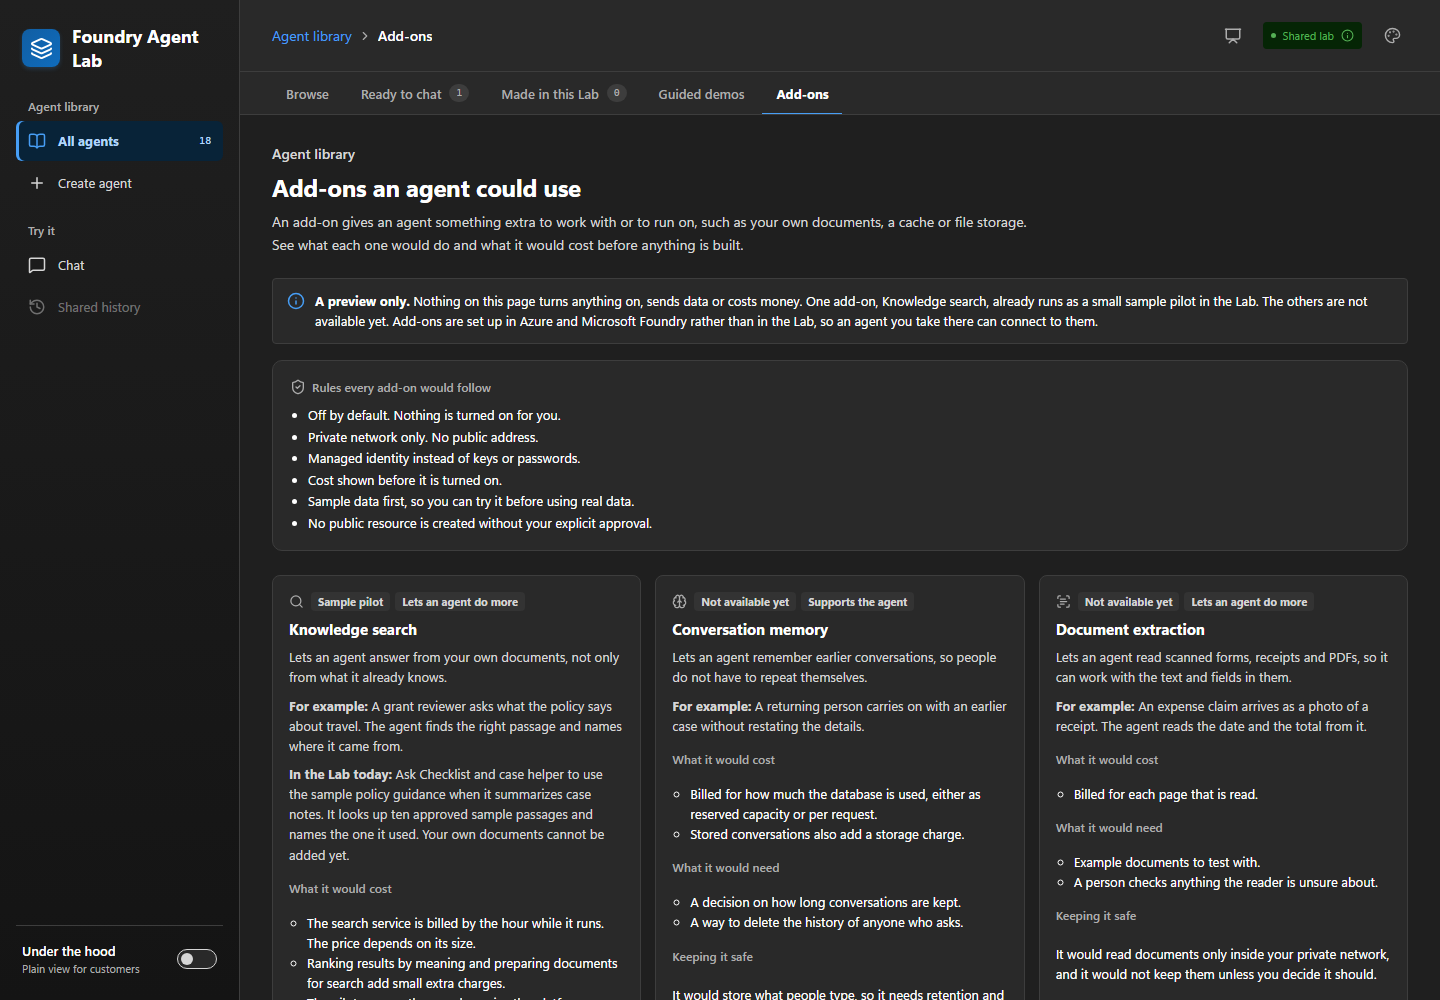
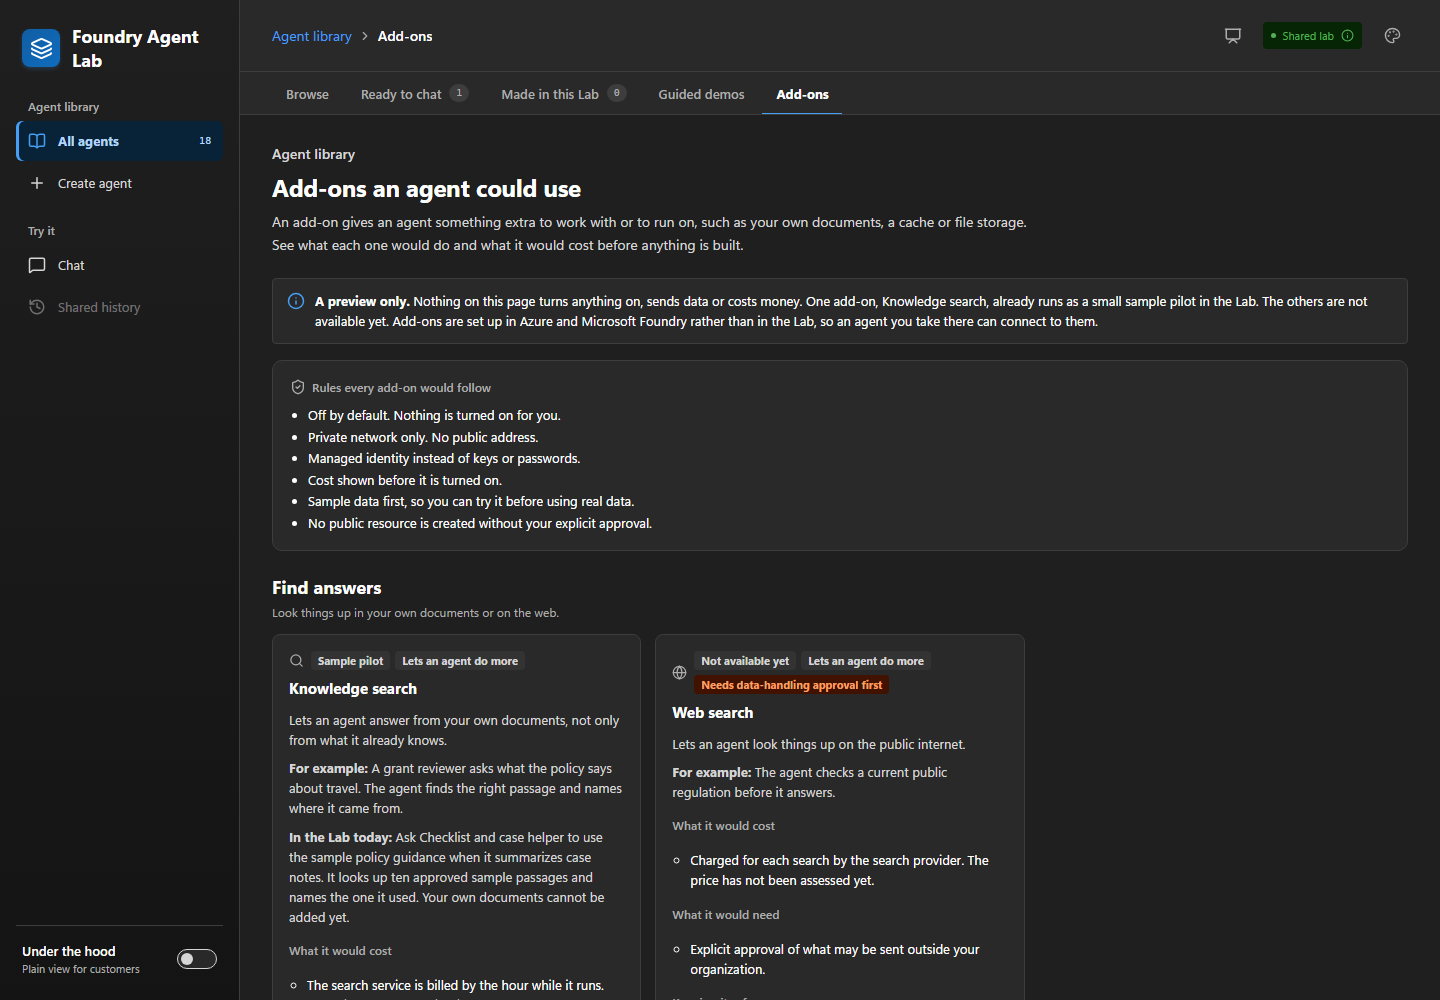
Group the Add-ons tab by job (#287) (#308)
Copilot-Session: 38443334-acdc-40f4-859e-901067c02276

Changed region(s): [[0.1875, 0.558, 0.4375, 0.992], [0.4688, 0.589, 0.7188, 1.0], [0.7188, 0.589, 0.9688, 0.992]]

diff --git a/workbench/frontend/unit/add-on-catalog.test.ts b/workbench/frontend/unit/add-on-catalog.test.ts
@@ -2,6 +2,7 @@ import assert from 'node:assert/strict'
 import { describe, it } from 'node:test'
 import {
   addOnGroupLabels,
+  addOnJobs,
   addOnRules,
   addOns,
   codingAgentRequest,
@@ -79,6 +80,32 @@ describe('add-ons catalogue', () => {
       )
     assert.equal(addOnGroupLabels.abilities, 'Lets an agent do more')
     assert.equal(addOnGroupLabels.support, 'Supports the agent')
+  })
+
+  it('puts every add-on under one job heading and shows no empty heading', () => {
+    const jobs = addOnJobs.map((job) => job.id)
+    for (const item of addOns)
+      assert.ok(jobs.includes(item.job), ` job ${item.job}`)
+    for (const job of addOnJobs)
+      assert.ok(
+        addOns.some((item) => item.job === job.id),
+        `nothing is listed under ${job.title}`,
+      )
+    assert.deepEqual(
+      addOnJobs.map((job) => job.title),
+      [
+        'Find answers',
+        'Work with documents',
+        'Remember and reuse',
+        'Do the work and tell people',
+      ],
+    )
+  })
+
+  it('says what each add-on does in one sentence', () => {
+    for (const item of addOns) {
+      assert.match(item.summary, /^[^.!?]+\.$/, ` summary`)
+    }
   })
 
   it('warns that a cache keeps what people asked, like memory does', () => {

diff --git a/workbench/frontend/tests/helpers/catalog.ts b/workbench/frontend/tests/helpers/catalog.ts
@@ -16,13 +16,15 @@ export const scorecards = JSON.parse(
 )
 export const templates: LibraryTemplate[] = catalog.templates
 
-// The add-on manifests in the repository's addons folder, in the order the Add-ons tab lists them.
+// The add-on manifests in the repository's addons folder, in the order the Add-ons tab lists them:
+// by job heading, then by each manifest's order.
+const addOnJobOrder = ['answers', 'documents', 'memory', 'work']
 const addOnsFolder = new URL('../../../../addons/', import.meta.url)
 export const addOnManifests: {
   id: string
   name: string
   order: number
-  card: { summary: string; pilot?: string }
+  card: { summary: string; job: string; pilot?: string }
 }[] = readdirSync(addOnsFolder, { withFileTypes: true })
   .filter(
     (entry) =>
@@ -34,7 +36,11 @@ export const addOnManifests: {
       readFileSync(new URL(`${entry.name}/addon.json`, addOnsFolder), 'utf8'),
     ),
   )
-  .sort((a, b) => a.order - b.order)
+  .sort(
+    (a, b) =>
+      addOnJobOrder.indexOf(a.card.job) - addOnJobOrder.indexOf(b.card.job) ||
+      a.order - b.order,
+  )
 
 export const templateById = (id: string) =>
   templates.find((item) => item.id === id)!

diff --git a/workbench/frontend/src/AddOns.tsx b/workbench/frontend/src/AddOns.tsx
@@ -15,6 +15,7 @@ import {
 } from 'lucide-react'
 import {
   addOnGroupLabels,
+  addOnJobs,
   addOnRules,
   addOns,
   codingAgentRequest,
@@ -68,13 +69,25 @@ export function AddOns({ onNotice }: { onNotice: (text: string) => void }) {
           ))}
         </ul>
       </section>
-      <ul className="library-grid addon-grid" aria-label="Add-ons">
-        {addOns.map((addOn) => (
-          <li key={addOn.id}>
-            <AddOnCard addOn={addOn} onNotice={onNotice} />
-          </li>
-        ))}
-      </ul>
+      {addOnJobs.map((job) => (
+        <section
+          key={job.id}
+          className="addon-job"
+          aria-labelledby={`addon-job-${job.id}`}
+        >
+          <h2 id={`addon-job-${job.id}`}>{job.title}</h2>
+          <p className="library-muted">{job.blurb}</p>
+          <ul className="library-grid addon-grid">
+            {addOns
+              .filter((addOn) => addOn.job === job.id)
+              .map((addOn) => (
+                <li key={addOn.id}>
+                  <AddOnCard addOn={addOn} onNotice={onNotice} />
+                </li>
+              ))}
+          </ul>
+        </section>
+      ))}
     </main>
   )
 }

diff --git a/workbench/frontend/src/add-on-catalog.ts b/workbench/frontend/src/add-on-catalog.ts
@@ -26,11 +26,38 @@ export const addOnGroupLabels: Record<AddOnGroup, string> = {
   support: 'Supports the agent',
 }
 
+// The job a person would pick an add-on for. The page groups its cards under these.
+export type AddOnJob = 'answers' | 'documents' | 'memory' | 'work'
+
+export const addOnJobs: { id: AddOnJob; title: string; blurb: string }[] = [
+  {
+    id: 'answers',
+    title: 'Find answers',
+    blurb: 'Look things up in your own documents or on the web.',
+  },
+  {
+    id: 'documents',
+    title: 'Work with documents',
+    blurb: 'Read forms and keep files in one private place.',
+  },
+  {
+    id: 'memory',
+    title: 'Remember and reuse',
+    blurb: 'Keep context and saved answers so people do not repeat themselves.',
+  },
+  {
+    id: 'work',
+    title: 'Do the work and tell people',
+    blurb: 'Run calculations, hand off long jobs and send approved messages.',
+  },
+]
+
 export type AddOn = {
   id: string
   name: string
   icon: AddOnIcon
   group: AddOnGroup
+  job: AddOnJob
   summary: string
   example: string
   // Set only when a small sample version already runs in the Lab.

diff --git a/workbench/frontend/tests/library.spec.ts b/workbench/frontend/tests/library.spec.ts
@@ -294,14 +294,20 @@ test('the Add-ons tab previews what an agent could connect to without calling an
   const cards = page.locator('.addon-card')
   await expect(cards.getByRole('heading', { level: 2 })).toHaveText([
     'Knowledge search',
-    'Conversation memory',
+    'Web search',
     'Document extraction',
+    'Document storage',
+    'Conversation memory',
+    'Response cache',
     'Notifications',
     'Code interpreter',
-    'Web search',
-    'Document storage',
-    'Response cache',
     'Job queue',
+  ])
+  await expect(page.locator('.addon-job > h2')).toHaveText([
+    'Find answers',
+    'Work with documents',
+    'Remember and reuse',
+    'Do the work and tell people',
   ])
   await expect(cards.getByText('Not available yet')).toHaveCount(8)
   await expect(cards.getByText('Supports the agent')).toHaveCount(4)

diff --git a/workbench/frontend/src/library.css b/workbench/frontend/src/library.css
@@ -1159,6 +1159,17 @@
   align-items: center;
   gap: 6px;
 }
+.addon-job {
+  margin: 0 0 28px;
+}
+.addon-job h2 {
+  margin: 0 0 4px;
+  font-size: 18px;
+  font-weight: 650;
+}
+.addon-job > p {
+  margin: 0 0 12px;
+}
 .addon-grid {
   grid-template-columns: repeat(auto-fill, minmax(300px, 1fr));
 }

diff --git a/addons/addon_manifest.py b/addons/addon_manifest.py
@@ -21,6 +21,8 @@ KINDS = ("built-in-tool", "existing-service", "new-service")
 ICONS = ("search", "memory", "documents", "notifications", "calculator", "web", "cache", "storage", "queue")
 # What the add-on is for: "abilities" lets an agent do something more, "support" is what an agent runs on.
 GROUPS = ("abilities", "support")
+# The job a person would pick the add-on for. The Add-ons tab groups its cards under these headings.
+JOBS = ("answers", "documents", "memory", "work")
 APPROVAL_GATES = ("billable-calls", "shared-data", "data-handling")
 RUNBOOK_HEADINGS = ("Plan", "Cost and diff", "Approval", "Apply", "Verify", "Wire the agent", "Tear down")
 # The only value a package may declare for each guardrail. Loosening one is a code change, not a manifest edit.
@@ -34,9 +36,9 @@ _TERRAFORM_TYPE = re.compile(r"(?:azurerm|azapi)_[a-z0-9_]+")
 _FILE_NAME = re.compile(r"[A-Za-z0-9][A-Za-z0-9_.-]*")
 _TOP_FIELDS = {"schema_version", "id", "name", "order", "kind", "tracking", "card", "package"}
 # The order the Add-ons tab's data lists a card's fields in.
-_CARD_ORDER = ("icon", "group", "summary", "example", "pilot", "cost", "needs", "safety", "approval", "service",
+_CARD_ORDER = ("icon", "group", "job", "summary", "example", "pilot", "cost", "needs", "safety", "approval", "service",
                "billing", "note")
-_CARD_REQUIRED = {"icon", "group", "summary", "example", "cost", "needs", "safety", "service", "billing"}
+_CARD_REQUIRED = {"icon", "group", "job", "summary", "example", "cost", "needs", "safety", "service", "billing"}
 _PACKAGE_FIELDS = {"runbook", "bootstrap", "acceptance_case", "terraform", "approval", "approval_gates",
                    "roles", "cost_lines", "guardrails"}
 _ACCEPTANCE_FIELDS = {"schema_version", "add_on", "cases"}
@@ -141,6 +143,7 @@ def _card(value):
     card = _object(value, "card", _CARD_ORDER, _CARD_REQUIRED)
     _choice(card["icon"], "icon", ICONS)
     _choice(card["group"], "group", GROUPS)
+    _choice(card["job"], "job", JOBS)
     for field in ("summary", "example", "safety", "service", "billing", "pilot", "approval", "note"):
         if field in card:
             _text(card[field], f"card {field}")

diff --git a/addons/test_addon_manifest.py b/addons/test_addon_manifest.py
@@ -14,6 +14,7 @@ def card(**changes):
     value = {
         "icon": "search",
         "group": "abilities",
+        "job": "answers",
         "summary": "Lets an agent find things.",
         "example": "It finds a passage.",
         "cost": ["Billed by the hour."],
@@ -134,6 +135,7 @@ class ManifestShapeTests(TemporaryAddOns):
             ({"tracking": [54, 54]}, "tracking lists an issue twice"),
             ({"card": card(icon="robot")}, "unknown icon"),
             ({"card": card(group="extras")}, "unknown group"),
+            ({"card": card(job="chores")}, "unknown job"),
             ({"card": card(cost=[])}, "card cost must be a non-empty list"),
             ({"card": card(needs=[1])}, "card needs entries must be non-empty text"),
             ({"card": card(approval="")}, "card approval must be non-empty text"),
@@ -245,7 +247,7 @@ class CatalogTests(TemporaryAddOns):
         self.add("second", manifest("second", name="Second", order=1))
         entries = json.loads(build_catalog.render(load_add_ons(self.root)))["add_ons"]
         self.assertEqual([entry["id"] for entry in entries], ["second", "first"])
-        self.assertEqual(list(entries[1]), ["id", "name", "icon", "group", "summary", "example", "pilot", "cost",
+        self.assertEqual(list(entries[1]), ["id", "name", "icon", "group", "job", "summary", "example", "pilot", "cost",
                                             "needs", "safety", "approval", "service", "billing", "note"])
 
     def test_notices_a_stale_or_missing_catalog(self):

diff --git a/docs/lab-conversations.md b/docs/lab-conversations.md
@@ -34,7 +34,7 @@ data contract and deployment checks. You don't need it to use **Chat**.
 | --- | --- | --- |
 | **Browse** | Lists every agent definition from `GET /api/agent-templates` with server-derived filters and live counts. | Readiness and tool mode come from the catalog, and nothing claims a connected customer system. **Expected behavior** is an acceptance description, not a recorded model response. Export downloads a ready saved record for `bundle.py export-created`. There is no one-click cross-environment deployment. **Take it to Foundry** also offers two downloads built in the browser, with nothing created in the Lab: an agent definition (the body of Foundry's create-agent-version call for a prompt agent, with a placeholder for your own model deployment) and, for agents with test results, a JSONL file of their test requests for a Foundry evaluation. **Test results** shows recorded acceptance results from `GET /api/agent-scorecards`: answer checks passed (each case is asked several times and passes only if every answer does), median response time, model cost per answer at list prices, and whether a person has signed off. Case IDs, token counts and check notes appear under the hood. |
 | **Guided demos** | Shows sample stories and loads a sample into an enabled matching agent, or into its library preview when the Lab has previews on. | Expected findings are examples, not live model results. You can't select hidden, failed, or unavailable agents, and the Lab never sends a sample automatically. |
-| **Add-ons** | Lists nine planned add-ons from the add-on manifests in the repository's `addons` folder (see the [add-on package format](addon-package-format.md)). Each card says whether it **Lets an agent do more** (knowledge search, document extraction, notifications, code interpreter and web search) or **Supports the agent** (conversation memory, document storage, a response cache and a job queue). | Preview only. The page makes no API call, saves nothing and turns nothing on. Knowledge search carries a **Sample pilot** badge because a lookup over ten approved sample passages runs in Checklist and case helper (see the [knowledge retrieval design](knowledge-retrieval.md)). The other eight show **Not available yet**. Every add-on is off by default, private, keyless and needs its cost shown first. Web search also needs separate data-handling approval. The response cache and the job queue would keep what people asked, so they need the same retention and deletion rules as conversation memory. Service names, billing meters and the roadmap issue appear under the hood. |
+| **Add-ons** | Lists nine planned add-ons from the add-on manifests in the repository's `addons` folder (see the [add-on package format](addon-package-format.md)). The cards sit under four job headings (**Find answers**, **Work with documents**, **Remember and reuse** and **Do the work and tell people**). Each card says whether it **Lets an agent do more** (knowledge search, document extraction, notifications, code interpreter and web search) or **Supports the agent** (conversation memory, document storage, a response cache and a job queue). | Preview only. The page makes no API call, saves nothing and turns nothing on. Knowledge search carries a **Sample pilot** badge because a lookup over ten approved sample passages runs in Checklist and case helper (see the [knowledge retrieval design](knowledge-retrieval.md)). The other eight show **Not available yet**. Every add-on is off by default, private, keyless and needs its cost shown first. Web search also needs separate data-handling approval. The response cache and the job queue would keep what people asked, so they need the same retention and deletion rules as conversation memory. Service names, billing meters and the roadmap issue appear under the hood. |
 | **New chat** | Starts a new Chat draft for the selected agent. | It doesn't create an agent or submit a starter prompt. When you have unsaved messages or a draft you typed, the Lab asks before clearing them. An example you haven't edited is replaced without asking. Saved history isn't deleted. |
 | **Create agent** | Prepares a setup from a built-in template and, when enabled, lets an operator publish it. | Preparation is deterministic template assembly, not a model-designed agent. |
 | **Made in this Lab** | Lists agents published from the Lab's creation flow. | Ready agents can be selected in **Chat**. |

diff --git a/docs/addon-package-format.md b/docs/addon-package-format.md
@@ -75,7 +75,7 @@ otherwise, and an unknown field is an error.
 | `order` | Position on the **Add-ons** tab, from 1. No two add-ons share one. |
 | `kind` | `built-in-tool` (a Foundry tool, nothing to deploy), `existing-service` (uses a service the platform already has), or `new-service` (needs a service the platform doesn't have yet). |
 | `tracking` | The issue numbers that follow the add-on. |
-| `card` | What the tab shows: `icon`, `group`, `summary`, `example`, `cost` (a list), `needs` (a list), `safety`, `service`, `billing`, and optionally `pilot`, `approval`, and `note`. An add-on with a `pilot` description shows a **Sample pilot** badge instead of **Not available yet**. |
+| `card` | What the tab shows: `icon`, `group`, `job`, `summary`, `example`, `cost` (a list), `needs` (a list), `safety`, `service`, `billing`, and optionally `pilot`, `approval`, and `note`. An add-on with a `pilot` description shows a **Sample pilot** badge instead of **Not available yet**. |
 | `package` | Optional. The [deployment package](#the-deployment-package). Leave it out until someone builds the add-on. |
 
 Add-ons without a `package` are previews. The card says what the add-on would
@@ -237,6 +237,11 @@ Each card's `group` decides which heading it sits under and its badge:
 `support` (**Supports the agent**) for something it runs on, such as memory,
 storage or a cache. Chat's **Ask the Lab** answers read the same file, so a new
 add-on appears there with no other change.
+
+Each card's job decides which heading the Add-ons tab lists it under:
+nswers (**Find answers**), documents (**Work with documents**), memory`n(**Remember and reuse**) or work (**Do the work and tell people**). Within a
+heading, cards follow order. The summary says what the add-on does in one
+sentence.
 
 Each card also has a **Copy request for your coding agent** button, shown with
 Under the hood on. It copies a request built from the manifest. The request asks
